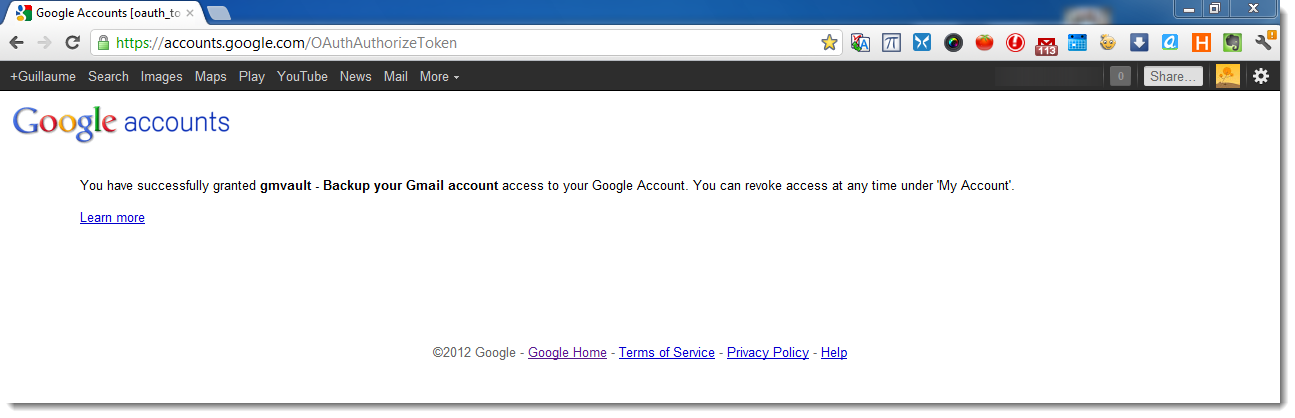
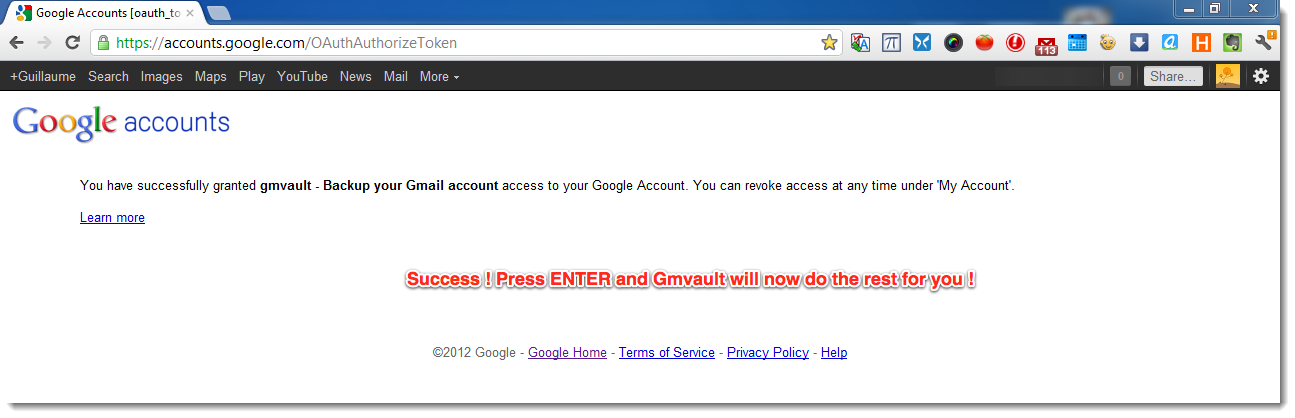
start updating in_depth

Changed region(s): [[0.3089, 0.622, 0.7722, 0.7153]]

diff --git a/in_depth.html b/in_depth.html
@@ -69,18 +69,21 @@
        <a name="indepth"></a><h1>In Depth</h1>
         <p></br>Gmvault is a user friendly command-line tool that setup most of the necessary defaults to quickly sync (backup) your gmail account or restore it to a gmail account.
         </br>It should be self-explanatory. Use gmvault -h to see the different options and how the tool works.</br>
-        <pre>$./gmvault -h
+        <pre>./gmvault 
 
-usage: gmvault [-h] [-v] {restore,sync} ...
+gmvault: error: too few arguments
+
+usage: gmvault [-h] [-v] {sync,restore,check} ...
 
 optional arguments:
-  -h, --help      show this help message and exit
-  -v, --version   show program's version number and exit
+  -h, --help            show this help message and exit
+  -v, --version         show program's version number and exit
 
 subcommands:
-  {restore,sync}  valid subcommands.
-    sync          synchronize with a given gmail account.
-    restore       restore gmvault-db to a given email account.
+  {sync,restore,check}  valid subcommands.
+    sync                synchronize with a given gmail account.
+    restore             restore gmvault-db to a given email account.
+    check               Check and clean the disk database.
 
 Examples:
 
@@ -88,10 +91,10 @@ a) Get help for each of the individual commands
 
 #> gmvault sync -h
 #> gmvault restore --help
-
+#> gmvault check -h
 
 </pre>
-        </br>Gmvault is a command-oriented tool and every Gmvault call needs to contain a subcommand (sync or restore).
+        </br>Gmvault is a command-oriented tool and every Gmvault call needs to contain a subcommand (sync, restore and check).
         </br>You will first need to setup the credential (token or password) for the different gmail accounts you want to use prior to syncing or restoring them with Gmvault.
         </br>This will allow Gmvault to automatically connect to the accounts you want to work with.
         </p>
@@ -125,7 +128,7 @@ Press ENTER to open the browser. Once you've granted access you can switch back 
 		<h5>You should see this once you have granted access to Gmvault.</h5>
 		<img src="./assets/img/xoauth-auth-access-granted.png" alt="">
    </div>
-   <p>Once you have granted access to Gmvault, press one more time ENTER to let Gmvault finish its work.</p>
+   <p>Once you have granted access to Gmvault, press one more time <strong>ENTER</strong> to let Gmvault finish its work.</p>
    <p><pre>You should now see the web page on your browser now.
 If you don't, you can manually open:
 
